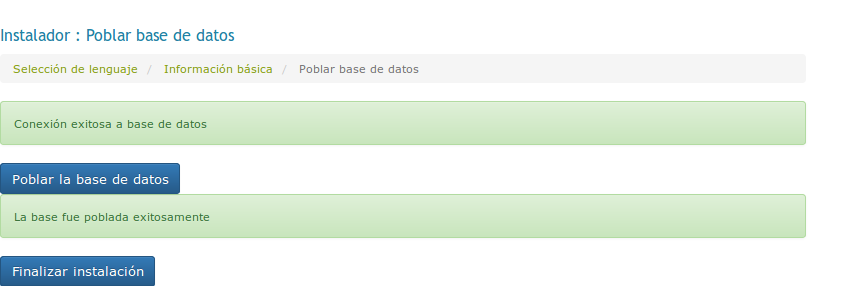
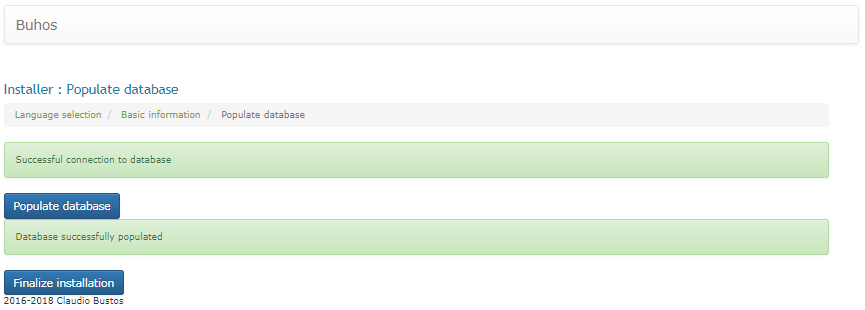
English manual, draft 1.

diff --git a/docs/manual/en/index.html b/docs/manual/en/index.html
@@ -24,9 +24,10 @@
 <h1>BUHOS</h1>
 <p>Systematic Literature Revision Management Software</p>
 <p>User Manual</p>
-<p>Version 1.0.0 - Revision 7 March 2018</p>
+<p>Version 1.0.0  (draft)- Revision 11 March 2018</p>
     <p>Author: Claudio Bustos</p>
     <p>Reviewers: Maria Gabriela Morales, Fabiola S&aacute;ez, Astrid Sarmiento</p>
+    <p>Translation to English: Elizabeth Medina</p>
     <p>&copy; Copyright Claudio Bustos 2018</p>
 </header>
 <nav>
@@ -46,7 +47,7 @@
 
     <li><a href="#user_guide">Quick User Guide</a><ul>
 <li><a href="#guia_preparacion">Systematic Review Preparation</a></li>
-<li><a href="#guia_busqueda">Search Stage</a></li>
+<li><a href="#guide_search">Search Stage</a></li>
 <li><a href="#guia_screening_title_abstract">Title and Abstract Screening Stage</a></li>
 <li><a href="#guide_review_full_text">Full-Text Review</a></li>
 <li><a href="#guide_report">Reporting</a></li>
@@ -77,11 +78,11 @@
 <li>Daniel Lermanda: Communication strategy consultant.</li>
 <li>Pedro Salcedo, Alejandro D&iacute;az: Requirements assessment.</li>
 <li>Fabiola S&aacute;ez, Astrid Sarmiento: Revision of Manual.</li>
-<li>Liz Medina: English translation, home page and Manual. </li>
+<li>Liz Medina: English translation of home page and Manual. </li>
 </ul>
 
 <h3><span id="caracteristicas_principales" class="anchor"></span>Main Software Features</h3>
-<p>Buhos is a development and management software that covers all phases and aspects of the systematic literature review process.   To this end the software&apos;s features are:</p>
+<p>Buhos is a development and management software that covers all phases and aspects of the systematic literature review process. To this end the software&apos;s features are:</p>
     
 <table class="table table-bordered">
 <tbody>
@@ -175,7 +176,7 @@ sudo buhos restart
 <h3><span id="installation_source_code" class="anchor"></span>From Source Code</h3>
 
     <p>As a prerequisite for installing the software, Ruby 2.4 or higher should be installed, with development libraries for MySQL and SQlite. In addition, the  <code>bundler</code> gem must be installed to download the gems needed for the software to work.</p>
-<p>En Ubuntu 16, the following instructions install all the required dependencies: </p>
+<p>In Ubuntu 16, the following instructions install all the required dependencies: </p>
 <pre><code>
 apt-get update
 apt-get upgrade -y
@@ -257,7 +258,7 @@ passenger_ruby &lt;ruby_location&gt;
 
 <p>As a first step of the configuration the installation language must be selected.</p>
 <p><img class='border img-fluid interface' src="images/image1.png" /></p>
-<p>Secondly, basic information for the operation of the system must be provided. This means selecting the use of a sqlite database for local use, or a MySQL database for distributed use. If you&rsquo;re not sure what choice to make, use SQLite. If you have a Scopus development key, you can enter it; the proxy settings will be used if you must use one for your university or work.</p>
+<p>Secondly, basic information for the operation of the system must be provided. This means selecting the use of a SQLite database for local use, or a MySQL database for distributed use. If you&rsquo;re not sure what choice to make, use SQLite. If you have a Scopus development key, you can enter it; the proxy settings will be used if you must use one for your university or work.</p>
 
 <p><img class='border img-fluid interface' src="images/image2.png" /></p>
 <p>Once the application is configured, it tries to connect to the database. If the process is successful, a confirmation message appears and a button to start populating the database is displayed. This process lasts from 30 to 60 seconds, depending on the computer.</p>
@@ -269,31 +270,31 @@ passenger_ruby &lt;ruby_location&gt;
 <p>To close the application in Linux,  <kbd>Ctrl+C</kbd> can be used in the console. In Windows, close the window displaying the system logs.</p>
 </article>
 <article>
-<h2 id="user_guide">User Guide</h2>
+<h2 id="user_guide">Quick User Guide</h2>
 
-<p>For a local installation, enter the respective URL (<a href="http://localhost:4567">http://localhost:4567</a> to enter the application. For an installation that has just been carried out, remember that the user name and password are both&apos; admin&apos;.</p>
+<p>For a local installation, enter the respective URL (<a href="http://localhost:4567">http://localhost:4567</a>) to enter the application. For an installation that has just been carried out, remember that the user name and password are both &apos;admin&apos;.</p>
 <p><img class='border img-fluid interface' src="images/image6.png" /></p>
 <p>The dashboard is the main working interface, accessed by clicking on the application name or the &apos;My Dashboard&apos; link.</p>
 <p><img class='border img-fluid interface' src="images/image7.png" /></p>
 <p>The software functionality is demonstrated by the systematic review of a group (cluster) of articles on software for the performance of systematic reviews.</p>
 <h3><span id="guia_preparacion" class="anchor"></span>Preparation of the Systematic Review</h3>
 
-<p>The systematic review is created by pressing the &quot;New Systematic Review&quot; button. A form is then displayed in which the main features of the research must be entered, including the period of years within which the search should be performed, and the categories that the study falls under according to the Cooper classification.</p>
+<p>The systematic review is created by pressing the &quot;New Systematic Review&quot; button. A form is then displayed in which the main features of the research must be entered, including the period of years within which the search should be performed, and the categories that the study falls under according to <a href='http://www.cedu.niu.edu/~walker/research/Taxonomy%20of%20Lit%20Reviews.pdf'>Cooper's taxonomy</a>.</p>
 
 <p><img class='border img-fluid interface' src="images/image8.png" /></p>
 <p>Once the systematic review has been created, a technical sheet is displayed. A wide variety of possible actions will emerge for deploying the systematic review.</p>
 <p><img class='border img-fluid interface' src="images/image9.png" /></p>
 <p>As shown here, three objectives were defined, thus a customized form can be created for the systematic review. To do this, click on the &apos;Analysis Fields&apos; button.</p>
-<p>Each form is made up of one or more fields. First, indicate where the field should be located inside the form. Second, indicate the code that the field will have in the database. Said code may only consist of lowercase letters, numbers and underscores. Third, the text to be contained in the form will be included in the description, and, finally, the field type. When you have finished, click &lsquo;Create New Field&apos;.</p>
+<p>Each form is made up of one or more fields. First, indicate where the field should be located inside the form.  Second, the text to be contained in the form will be included in the description. Third, indicate the code that the field will have in the database. Said code may only consist of lowercase letters, numbers and underscores. Finally, indicate the field type (short text, long text, multiple choice). When you have finished, click &lsquo;Create New Field&apos;.</p>
 <p>In the sample case, three fields are required: tools, stage and function. When the form definition is complete, generate the form by pressing the button &apos;Update Customized Field Record Table&apos;.</p>
 <p><img class='border img-fluid interface' src="images/image10.png" /></p>
-<h3><span id="guia_busqueda" class="anchor"></span>Search Stage</h3>
+<h3><span id="guide_search" class="anchor"></span>Search Stage</h3>
 <p>By default, the system will initiate the search stage of the systematic review. At this stage, the searches done by the different evaluators must be recorded, whether carried out in bibliographic databases or informally, on different search engines.</p>
 <p>To simplify the process of recording searches, the user dashboard can be accessed by clicking on the application name, which will call up the following interface.</p>
 <p><img class='border img-fluid interface' src="images/image11.png" /></p>
 <p>The principal medium for incorporating search information is the entry of BibTeX files, available in virtually all bibliographic reference systems. Some examples: EndNote, Refwords and Mendeley.</p>
 <p>For demonstration purposes, in the software&apos;s installation directory there is a manual. bib file with six texts, selected from the developer&apos;s customized Mendeley repository. To enter this search, click on the appropriate dashboard button.</p>
-<p>Before filling out the form, the font type must first be specified. The following search modalities are offered in indexed databases:  informal search, backward snowballing (search in references contained in selected texts), and forward snowballing (search for articles that cite already-selected texts). The example given is that of an informal search. Secondly, entry of the database is requested from which the search was obtained. In the case shown, upon being obtained directly from Mendeley, the&apos; general&apos; option applies. Thirdly, the search criterion is left blank, as the indexed database is no longer used, and the description is completed. Finally, enter the manual. bib file in the last space on the form.</p>
+<p>Before filling out the form, the source type must first be specified. The following search modalities are offered: search in a indexed databases, informal search, backward snowballing (search in references contained in selected texts), and forward snowballing (search for articles that cite already-selected texts). The example given is that of an informal search. Secondly, entry of the database is requested from which the search was obtained. In the case shown, upon being obtained directly from Mendeley, the&apos; general&apos; option applies. Thirdly, the search criterion is left blank, as the indexed database is no longer used, and the description is completed. Finally, enter the manual. bib file in the last space on the form.</p>
 <p><img class='border img-fluid interface' src="images/image12.png" /></p>
 <p>When the searches have been incorporated, they must be processed and later validated. To process them, click on the respective check box and click &lsquo;Process searches&rsquo;.</p>
 <p><img class='border img-fluid interface' src="images/image13.png" /></p>
@@ -311,7 +312,7 @@ passenger_ruby &lt;ruby_location&gt;
 <p>Once the records have been defined, they should be reviewed to confirm whether they are useful or not. To determine this, the first criterion is to see whether the article title and abstract evidence eligibility for inclusion of the document into the study.</p>
 <p>In the next stage, the system displays the administration interface.</p>
 <p><img class='border img-fluid interface' src="images/image20.png" /></p>
-<p>By default, Buhos considers two users: an administrator with all the permissions to administer the system, and an analyst with an &apos;analyst&apos; password and key, who is authorized to check the systematic reviews assigned to him/her. In the example, all documents were assigned to both users to show the resolution of divergences. To view, click on the &apos;CD Allocations&apos; button.</p>
+<p>By default, Buhos considers two users: an administrator with all the permissions to administer the system, and an analyst with an &apos;analyst&apos; username and password, who is authorized to check the systematic reviews assigned to him/her. In the example, all documents were assigned to both users to show the resolution of divergences. To view, click on the &apos;CD Allocations&apos; button.</p>
 <p>All the documents can be assigned to a user, using the &apos;Assign All&apos; buttons or assigning each document individually. In this case, the two &apos;Assign All&apos; buttons were pressed.</p>
 <p><img class='border img-fluid interface' src="images/image21.png"/></p>
 <p>The result should be similar to the following:</p>
@@ -323,12 +324,11 @@ passenger_ruby &lt;ruby_location&gt;
 <p>Each document pending assessment is submitted forthwith. The title and abstract of each document is shown, its reference in APA format, and how many citations it has. It is on the basis of this information that it must be decided whether the document provides enough information. It is observed that the sample abstract does not provide information on systematic review software, but rather refers to a study on how reviews are conducted. Therefore the decision should be marked &lsquo;No&rsquo; and its status as research on reviews can be added on as a tag.</p>
 <p><img class='border img-fluid interface' src="images/image25.png" /></p>
 <p>When the above-referenced decision is made, the color of the frame is seen to change and the selected tag is added.</p>
-<p>The abstract of the following text on GAPScreener presents some of the key words that were established when the systematic review was defined. Judging from the document title and abstract the document is clearly relevant to the research. In fact, a tag can even be added indicating that the document is useful for the screening stage.</p>
+<p>The abstract of the following text on GAPScreener presents some of the key words that were established when the systematic review was defined. Judging from the document title and abstract the document is clearly relevant to the research. In fact, a tag can even be added indicating that the software refered on document is useful for the screening stage.</p>
 <p><img class='border img-fluid interface' src="images/image26.png" /></p>
 <p>During the review of all the documents, the user dashboard display indicates when there are no unchecked documents left.</p>
 <p><img class='border img-fluid interface' src="images/image27.png" /></p>
-<p>The same review process will now be performed, but this time by the user analyst. To proceed, log out by clicking on the &apos;Exit&apos; link at the top of the site,</p>
-
+<p>The same review process will now be performed, but this time by the user analyst. To proceed, log out by clicking on the &apos;Logout&apos; link at the top of the site,</p>
 <p><img class='border img-fluid interface' src="./images/image28.png"/></p>
 <p>then log into the system as an analyst. By default, both the username and the password are &apos;analyst&apos;.</p>
 <p><img class='border img-fluid interface' src="images/image29.png" /></p>
@@ -338,14 +338,14 @@ passenger_ruby &lt;ruby_location&gt;
 <p>Once all the users have decided on the texts, the administrator must decide whether it is necessary for him/her to resolve whether each document should or should not proceed to the following stage. We log into the system as administrator (user: admin, password: admin) and go to the link &apos;Unresolved Review 6 canonical documents&apos;.</p>
 <p>The&apos; Decision statistics&apos; box shows five documents with the decision pattern of two affirmatives (&apos;Yes&apos;), one document that one user decides that it is relevant, and another that it is not.</p>
 <p><img class='border img-fluid interface' src="images/image31.png" /></p>
-<p>Since there is unanimity on five documents, click on the             &lsquo;Accept&apos; button in the corresponding row. The resolutions for the texts will have changed from &apos;No resolution&apos; to &apos;Yes&apos;.</p>
+<p>Since there is unanimity on five documents, click on the &lsquo;Accept&apos; button in the corresponding row. The resolutions for the texts will have changed from &apos;No resolution&apos; to &apos;Yes&apos;.</p>
 <p><img class='border img-fluid interface' src="images/image32.png" /></p>
 <p>To see which texts the discrepancy occurred in, click on the  &apos;View&apos; button. That text will be precisely the one that an administrator pointed out was invalid.</p>
 <p><img class='border img-fluid interface' src="images/image33.png"/></p>
-<p>In this instance various alternatives exist, depending on the protocol: the technical sheet can be used to report the discrepancy to the researchers, a third researcher can be incorporated to resolve the issue or to exercise the administrator&apos;s function and issue a resolution. In the example, the last option was taken by clicking on the &apos;Yes&apos; button, leaving the decision for the subsequent stage of full-text review.</p>
+<p>In this instance various alternatives exist, depending on the systematic review protocol: the technical sheet can be used to report the discrepancy to the researchers, a third researcher can be incorporated to resolve the issue or to exercise the administrator&apos;s function and issue a resolution. In the example, the last option was taken by clicking on the &apos;Yes&apos; button, leaving the decision for the subsequent stage of full-text review.</p>
 <p>When the page is uploaded again, it is stated that the status of all the canonical documents has been resolved, thus allowing you to proceed to the next stage. Prior to this, references must be generated using Crossref. The process can take several minutes. If you want to verify the references that have been made, you can check them in the search interface.</p>
 <p><img class='border img-fluid interface' src="images/image34.png" /></p>
-<p>Once the system resolves the  Crossref references, you can advance to the next stage. In this next stage, you check whether there are any references to more than a certain number of documents selected in the title and abstract review stage. The number of references is listed in the reference data sheet as &apos;Minimum number of RTR documents for reference review&apos;; by default, and by default, it is set at two.  In our example, there is no reference that meets this condition, therefore proceed to the full-text review stage.</p>
+<p>Once the system resolves the  Crossref references, you can advance to the next stage. In this next stage, you check whether there are any references to more than a certain number of documents selected in the title and abstract review stage. The number of references is listed in the reference data sheet as &apos;Minimum number of RTR documents for reference review&apos;; by default, it is set at two.  In our example, there is no reference that meets this condition, therefore proceed to the full-text review stage.</p>
 <p><img class='border img-fluid interface' src="images/image35.png" /></p>
 <h3><span id="guide_review_full_text" class="anchor"></span>Full-Text Review</h3>
 <p>In full-text review, aside from the interfaces for assigning users to documents and issuing resolutions on them, files can be assigned to each canonical document. Four of these documents are open-access, so they are in the tutorial&apos;s resource directory and can be massively incorporated with the &apos;Batch File Management&apos; button.</p>
@@ -369,13 +369,13 @@ passenger_ruby &lt;ruby_location&gt;
 <p>Upon completion of the process, from the dashboard we proceed to the management of the review and accept all the studies, then advance to the final stage.</p>
 <p><img class='border img-fluid interface' src="images/image44.png" /></p>
 <h3><span id="guide_report" class="anchor"></span>Reporting</h3>
-<p>The systematic review report includes 3 online reports and 2 export types, to BibTeX and Graphml. The latter format, which stores the directed network of citations by the canonical documents, can be viewed in programs such as yEd or Gephi.</p>
+    <p>The systematic review report includes 3 online reports and 2 export types, to BibTeX and GraphML. The latter format, which stores the directed network of citations by the canonical documents, can be viewed in programs such as <a href="https://www.yworks.com/products/yed">yEd</a> or <a href="https://gephi.org/">Gephi</a>.</p>
 <p><img class='border img-fluid interface' src="images/image45.png" /></p>
-<p>First, we have a PRISMA flowchart that can be edited in a vector drawing program such as Inkscape.</p>
+    <p>First, we have a PRISMA flowchart that can be edited in a vector drawing program such as <a href="https://inkscape.org/es/">Inkscape</a>.</p>
 <p><img class='border img-fluid interface' src="images/image46.png" /></p>
 <p>The data extraction report gives us the list of live codes displayed on each form, with the number of times it appears and the text where it is located.</p>
 <p><img class='border img-fluid interface' src="images/image47.png" /></p>
-<p>A complete breakdown of the income earned is also provided in the forms.</p>
+<p>A complete breakdown of the data extracted on each document is also provided.</p>
 <p><img class='border img-fluid interface' src="images/image48.png" /></p>
 <p>The process report shows all decisions and resolutions of the administrator and the evaluators.</p>
 <p><img class='border img-fluid interface' src="images/image49.png" /></p>
@@ -385,16 +385,16 @@ passenger_ruby &lt;ruby_location&gt;
 <article>
     <h2 id="search">Search</h2>
     <p>After the main features of the Systematic Review have been defined, the articles that are relevant (i.e., that meet the purposes of the research), should be identified. The section on <a href="#external_import">Importing from indexed databases</a> shows how to obtain the required BibTeX files from different databases.</p>
-    <p>The processing of imported files involves obtaining their Records and References. The Records correspond to the documents listed in each file. In some databases, such as WoS and Scopus, each Record also lists the articles cited in it. In the system, each of these documents is called a Reference.</p>
-    <p>Duplication is a major issue in the work with Records and References, i. e., records and references that appear in the databases as different, but that actually point to the same document. Within the system, this unique representation of a document is designated as a Canonical Document.</p>
+    <p>The processing of imported files involves obtaining their <strong>Records</strong> and <strong>References</strong>. The Records correspond to the documents listed in each file. In some databases, such as WoS and Scopus, each Record also lists the articles cited in it. In the system, each of these documents is called a Reference.</p>
+    <p>Duplication is a major issue in the work with Records and References, i. e., records and references that appear in the databases as different, but that actually point to the same paper or document. Within the system, this unique representation of a document is designated as a <strong>Canonical Document</strong>.</p>
     <p>Each Register is necessarily associated with a Canonical Document. When each search is processed, if a Record&apos;s DOI, or its Scopus or WoS identifier, matches that of a previously existing Canonical Document, the Record is associated with the Canonical Document. Otherwise, a new Canonical Document is created.</p>
     <p>The situation is different from References. There are great disparities between how different bases describe references, and if these are entered manually, they can appear in many different formats. Therefore, the system literally saves the text of each Reference and, if possible, tries to associate it with an existing Canonical Document. Thus it is possible, for example, that a Record may have references from various sources -- WoS, Scopus and manual references -- and each one can contribute different clues to associate this document with the respective Canonical Documents.</p>
-    <p>The following Entity-Relationship diagram shows the existing relationship between the different entities related to the searches.</p><img src="images/Entity_relation_search_es.png" class="border img-fluid interface"/><p>Occasionally it is interesting to know to what extent the Records coincide between different Searches. In the Search interface, the button &apos;Compare Records by Search&apos; displays each Canonical Document and the Search it is found in.</p><img src="images/compare_records.png" class="border img-fluid interface"/></article>
+    <p>The following Entity-Relationship diagram shows the existing relationship between the different entities related to the searches.</p><img src="images/Entity_relation_search_en.png" class="border img-fluid interface"/><p>Occasionally it is interesting to know to what extent the Records coincide between different Searches. In the Search interface, the button &apos;Compare Records by Search&apos; displays each Canonical Document and the Search it is found in.</p><img src="images/compare_records.png" class="border img-fluid interface"/></article>
 
 
 <article>
 <h2><span id="external_import" class="anchor"></span>Importing from indexed databases</h2>
-    <p>Buhos mainly uses <code>BibTeX</code> to import and export from bibliographic reference systems and indexed databases.   It is the method that RefWorks uses, for example, to interact with different databases.</p>
+    <p>Buhos mainly uses <code>BibTeX</code> to import and export from bibliographic reference systems and indexed databases.   It is the method that <a href="https://www.refworks.com/">RefWorks</a> uses, for example, to interact with different databases.</p>
 <p>Occasionally, databases export defective BibTeX files. If the system rejects them, we recommend importing your search into a bibliographic reference system and exporting BibTex from there. Mendeley has been used successfully for this.</p>
 <h3><span id="external_import_wos" class="anchor"></span>Web of Science</h3>
 
@@ -442,9 +442,9 @@ passenger_ruby &lt;ruby_location&gt;
 <h2 id="software_spec">Software Specifications</h2>
     <h3><span id="technical_specifications" class="anchor"></span>Technical Features</h3>
 
-<p>X is a web application that uses the client server model. The server runs in Sinatra, a framework for web development, on Ruby. Any browser can be used as a client if it is standard-compliant, and accepts HTML5 and Javascript.</p>
-<p> To access the database, Sequel is used, an abstraction database layer supporting over 10 types of database. The system has been extensively tested in Sqlite for local use, and in Mysql for online use by multiple users.</p>
-<p>On the client side, bootstrap<sup>4</sup> is used, which is a toolkit for generating HTML, CSS and Javascript. It was chosen because of the ease with which it allows during development and the compatibility it ensures between different types of browsers.</p>
+<p><strong>Buhos</strong> is a web application that uses the client server model. The server runs in Sinatra, a framework for web development, on Ruby. Any browser can be used as a client if it is standard-compliant, and accepts HTML5 and Javascript.</p>
+<p> To access the database, Sequel is used, an abstraction database layer supporting over 10 types of database. The system has been extensively tested in SQLite for local use, and in MySQL for online use by multiple users.</p>
+<p>On the client side, Bootstrap is used, which is a toolkit for generating HTML, CSS and Javascript. It was chosen because of the ease with which it allows during development and the compatibility it ensures between different types of browsers.</p>
 <h3><span id="user_specifications" class="anchor"></span>User Specifications</h3>
 <p>Software Objective: Manage the complete process of systematic literature review</p>
 <p>Functionalities:</p>
@@ -483,7 +483,7 @@ passenger_ruby &lt;ruby_location&gt;
 <li>Changes can be made in previous steps, which automatically generate effects on subsequent ones.</li>
 <li>Each SR can account for 1 or more Searches. Each Search considers the following metadata.<ul>
 <li>Source:  Indexed database, informal search, backward snowballing, forward snowballing.</li>
-<li>Database</li>
+<li>Database </li>
 <li>Search Date</li>
 <li>Search criteria: May be the literal field (SCOPUS) or the manual procedure to carry it out (WoS)</li>
 <li>Supplementary Description</li>
@@ -521,7 +521,7 @@ passenger_ruby &lt;ruby_location&gt;
 <li>Each Tag can be associated with a CD by a user, either positively (user considers the tag as applicable), or negatively (user believes it does not apply).</li>
 <li>If a tag receives only negative votes, it does not appear in the decision interface. This means that if a user creates a Tag and subsequently votes no, the Tag disappears from the interface, but is not deleted from the system.</li>
 <li>The administrator can only delete a Tag from the system  if all its votes are negative.</li>
-<li>Each SR has a series of Analytical Fields. These create  a form to be used in the full-text review stage.</li>
+<li>Each SR has a series of Custom Analysis Fields. These create  a Customized Form to be used in the full-text review stage.</li>
 <li>Each user can send and receive Personal Messages to individuals in their associated groups. These messages can only be viewed by the parties involved and the administrator.</li>
 <li>Each user can send Systematic Review Messages. The messages are visible to the Systematic Review members.</li>
 <li>A PRISMA flowchart is provided to represent the document inclusion and exclusion process.</li>

diff --git a/README.es.md b/README.es.md
@@ -24,7 +24,7 @@ Plataforma basada en web para gestionar el proceso completo de revisiones sistem
 
 ## Documentación
 
-Se cuenta con un manual disponible en  [español](https://buhos.org/manual/es/), que contiene una guía rápida para entender la metodología de revisión sistemática que sustena el software.
+Se cuenta con un manual disponible en  [español](https://buhos.org/manual/es/) e [inglés](https://buhos.org/manual/en/), que contiene una guía rápida para entender la metodología de revisión sistemática que sustena el software.
 
 La API está documentada usando [Yard](https://yardoc.org/) y está disponible en [https://www.buhos.org/api](https://www.buhos.org/api). Sólo se encuentra disponible en inglés.
 

diff --git a/README.md b/README.md
@@ -24,7 +24,7 @@ Web based platform to manage complete process of systematic literature reviews. 
 
 ## Documentation
 
-There is a user manual available in [Spanish](https://buhos.org/manual/es/) with a quick guide for understanding the systematic review methodology that supports the software.
+There is a user manual available in [English](https://buhos.org/manual/en/) and  [Spanish](https://buhos.org/manual/es/) with a quick guide for understanding the systematic review methodology that supports the software.
 
 The API is documented using [Yard](https://yardoc.org/) and is available on [https://www.buhos.org/api](https://www.buhos.org/api). Only available in English.
 
